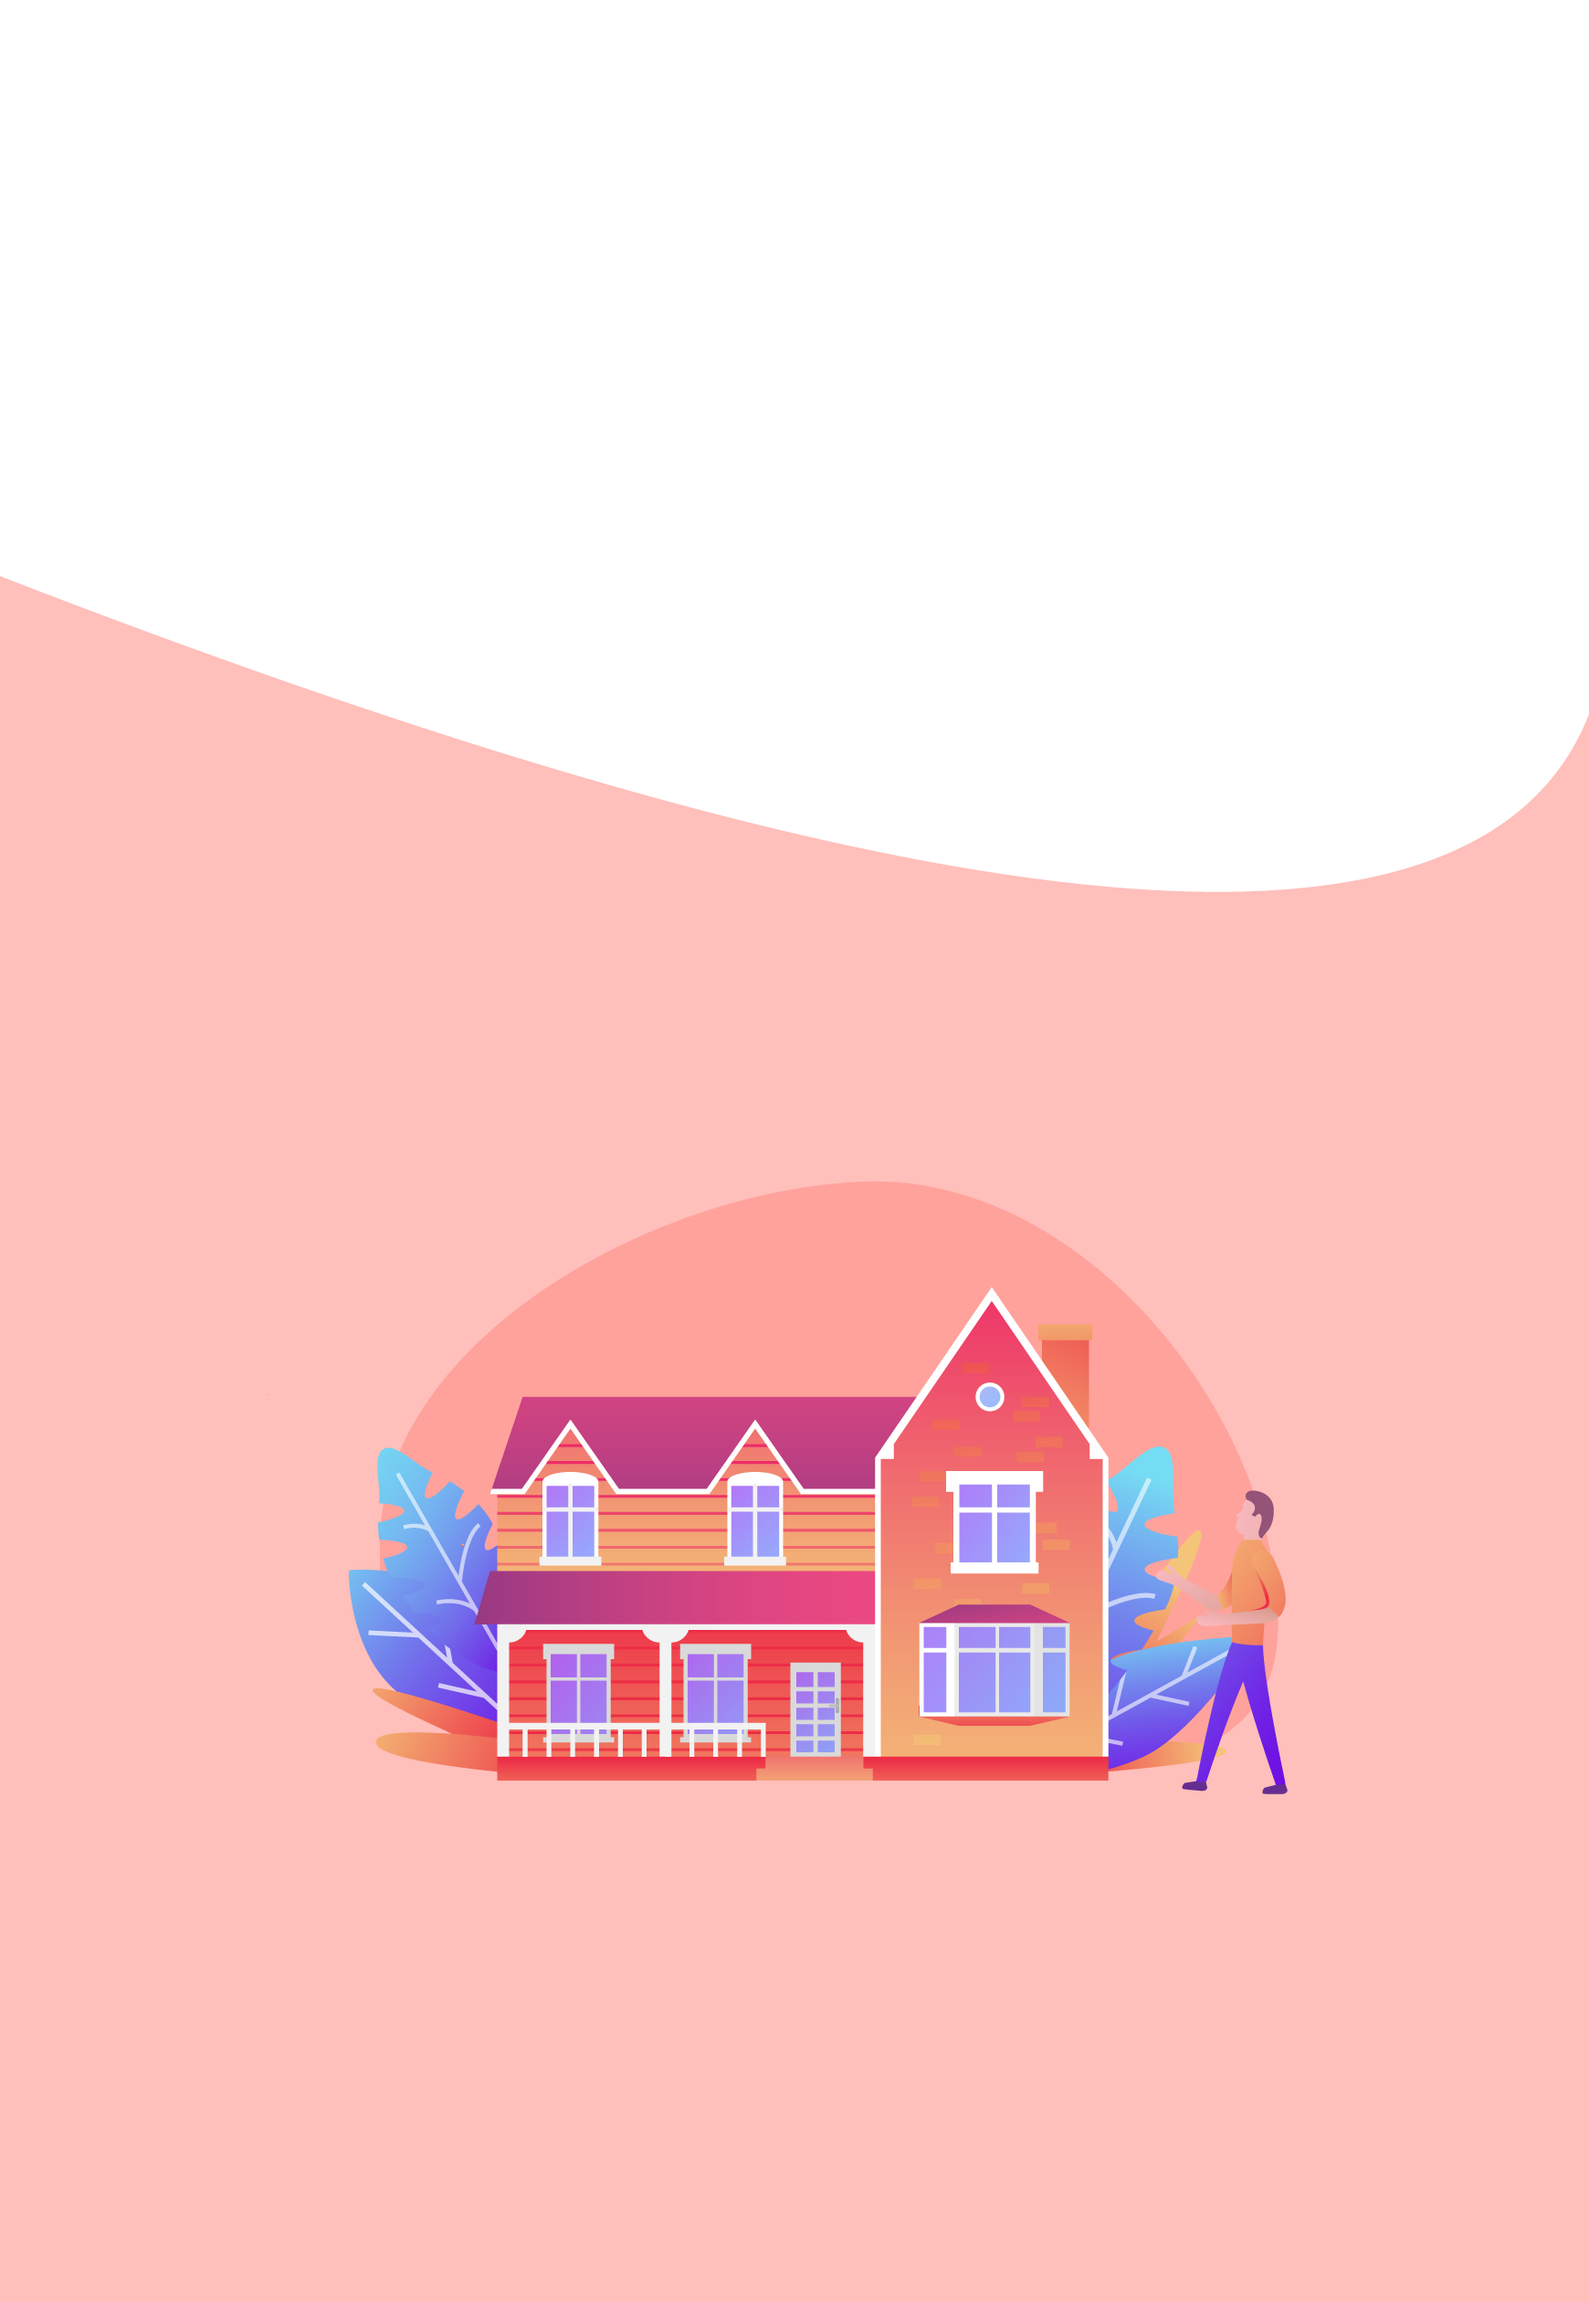
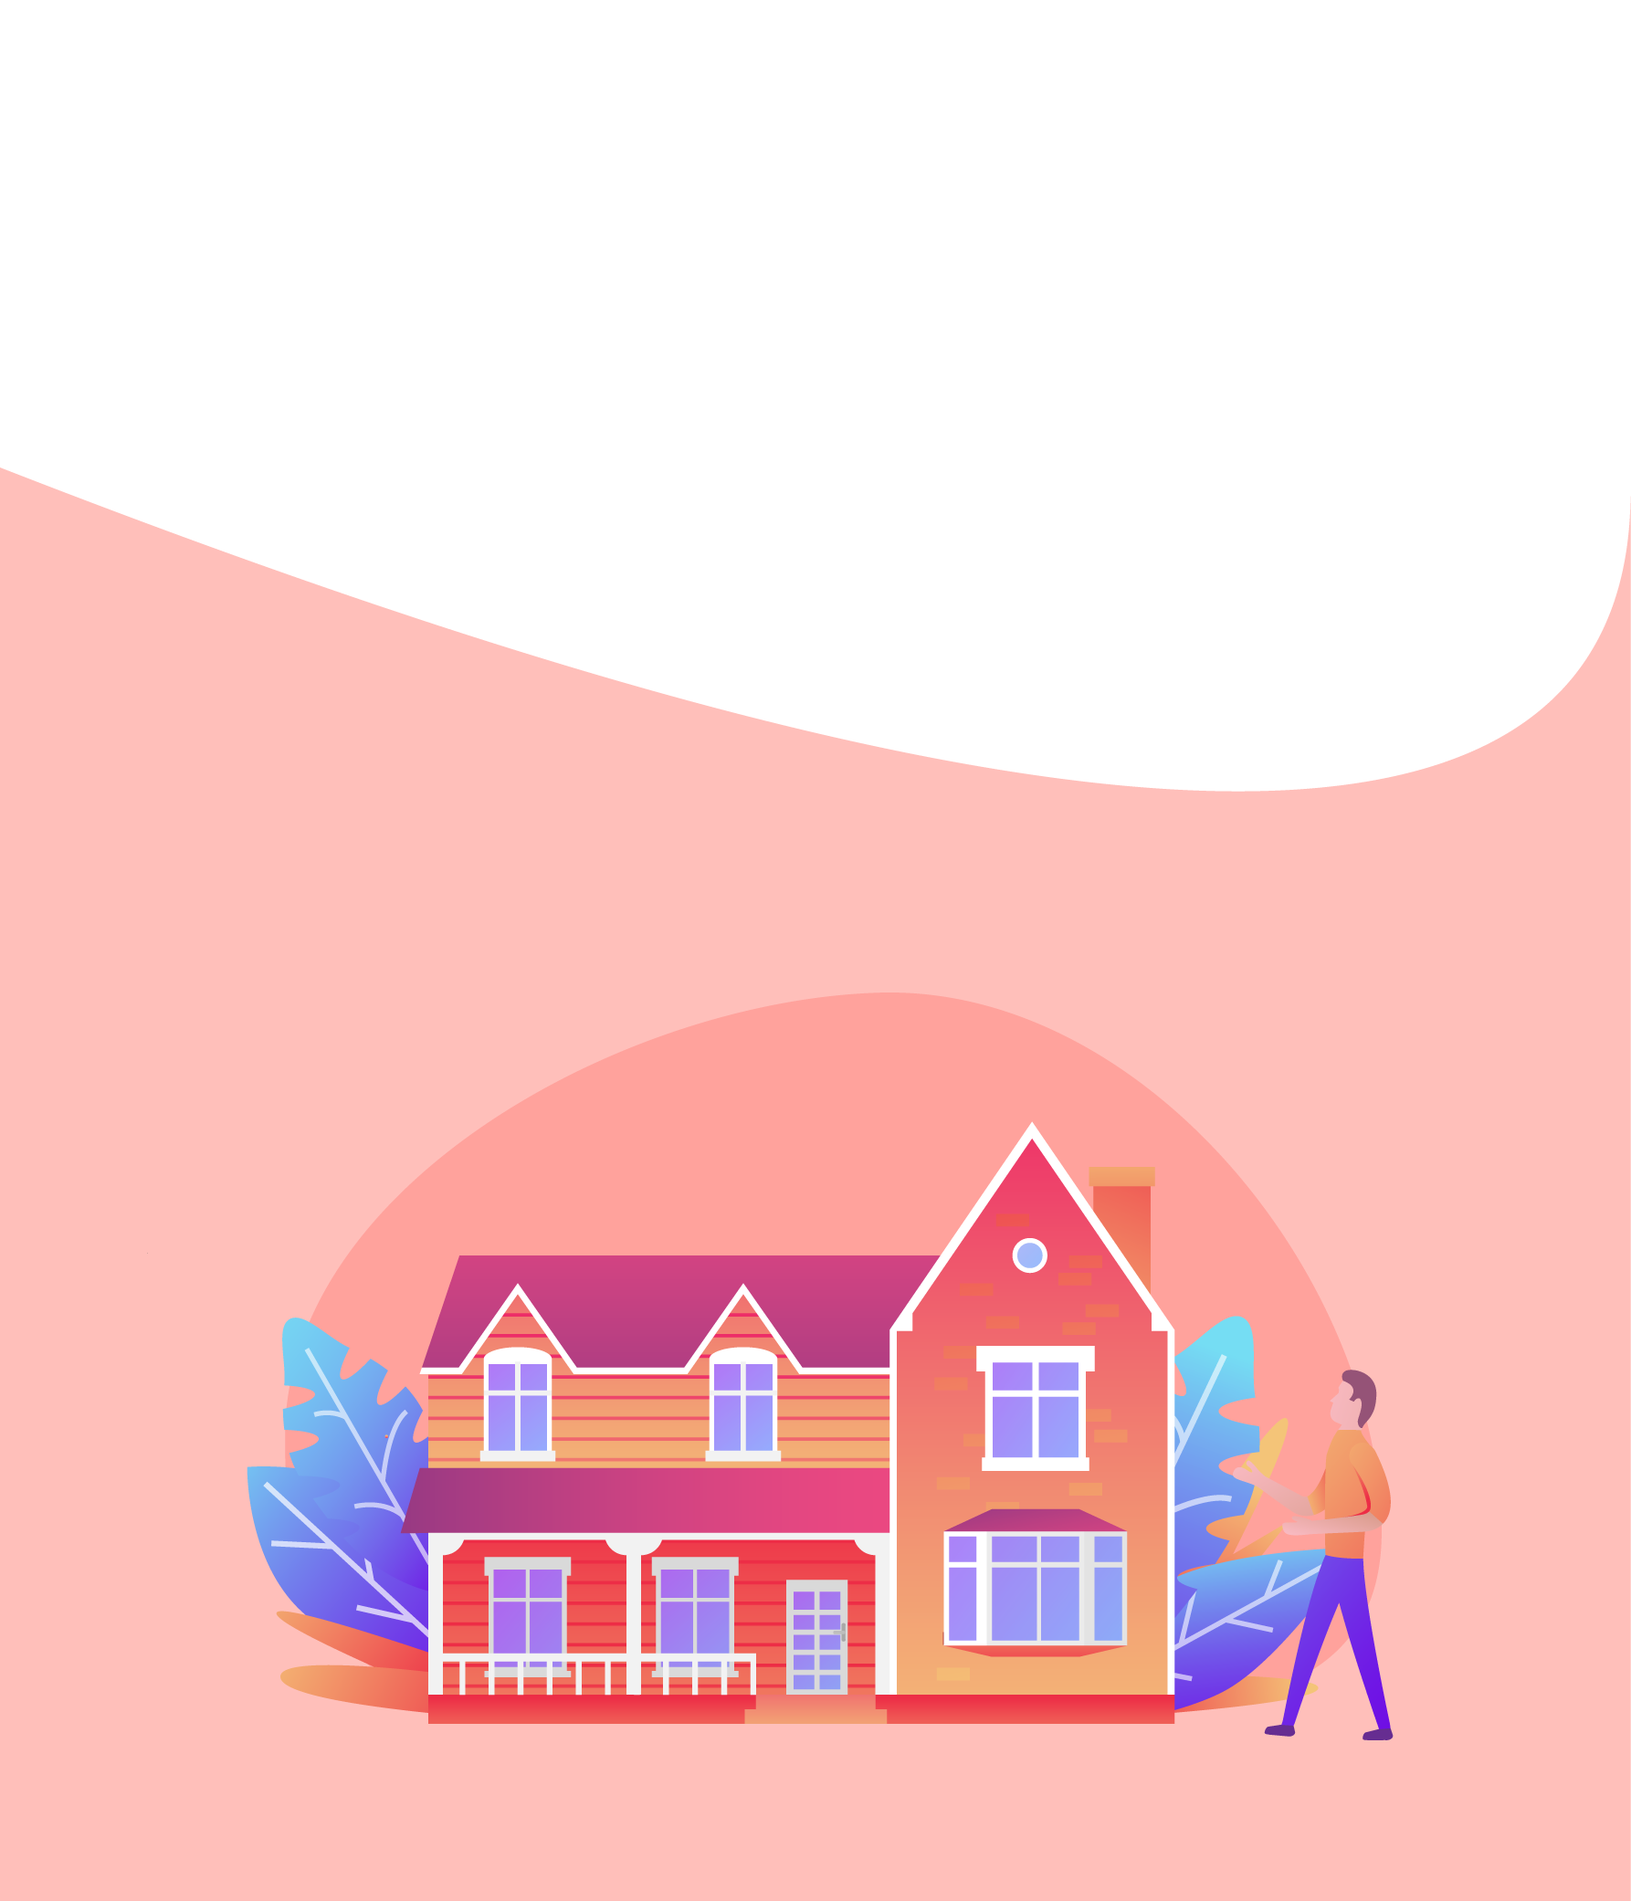
more changes -_-

diff --git a/front-end/src/assets/css/general.css b/front-end/src/assets/css/general.css
@@ -652,7 +652,7 @@ body {
 
   .intro-section .bg-stretch {
     /* background-image: url("../images/finaliphone678.png"); */
-    background-image: url("../images/isthis2.png");
+    background-image: url("../images/isthis3.png");
     background-size: cover;
 
 
@@ -660,7 +660,7 @@ body {
 
   .intro-section .bg-stretch-2 {
     background-image: url("../images/compguyiphonex.png");
-    background-size: cover;
+    background-size: contain;
   
 
 
